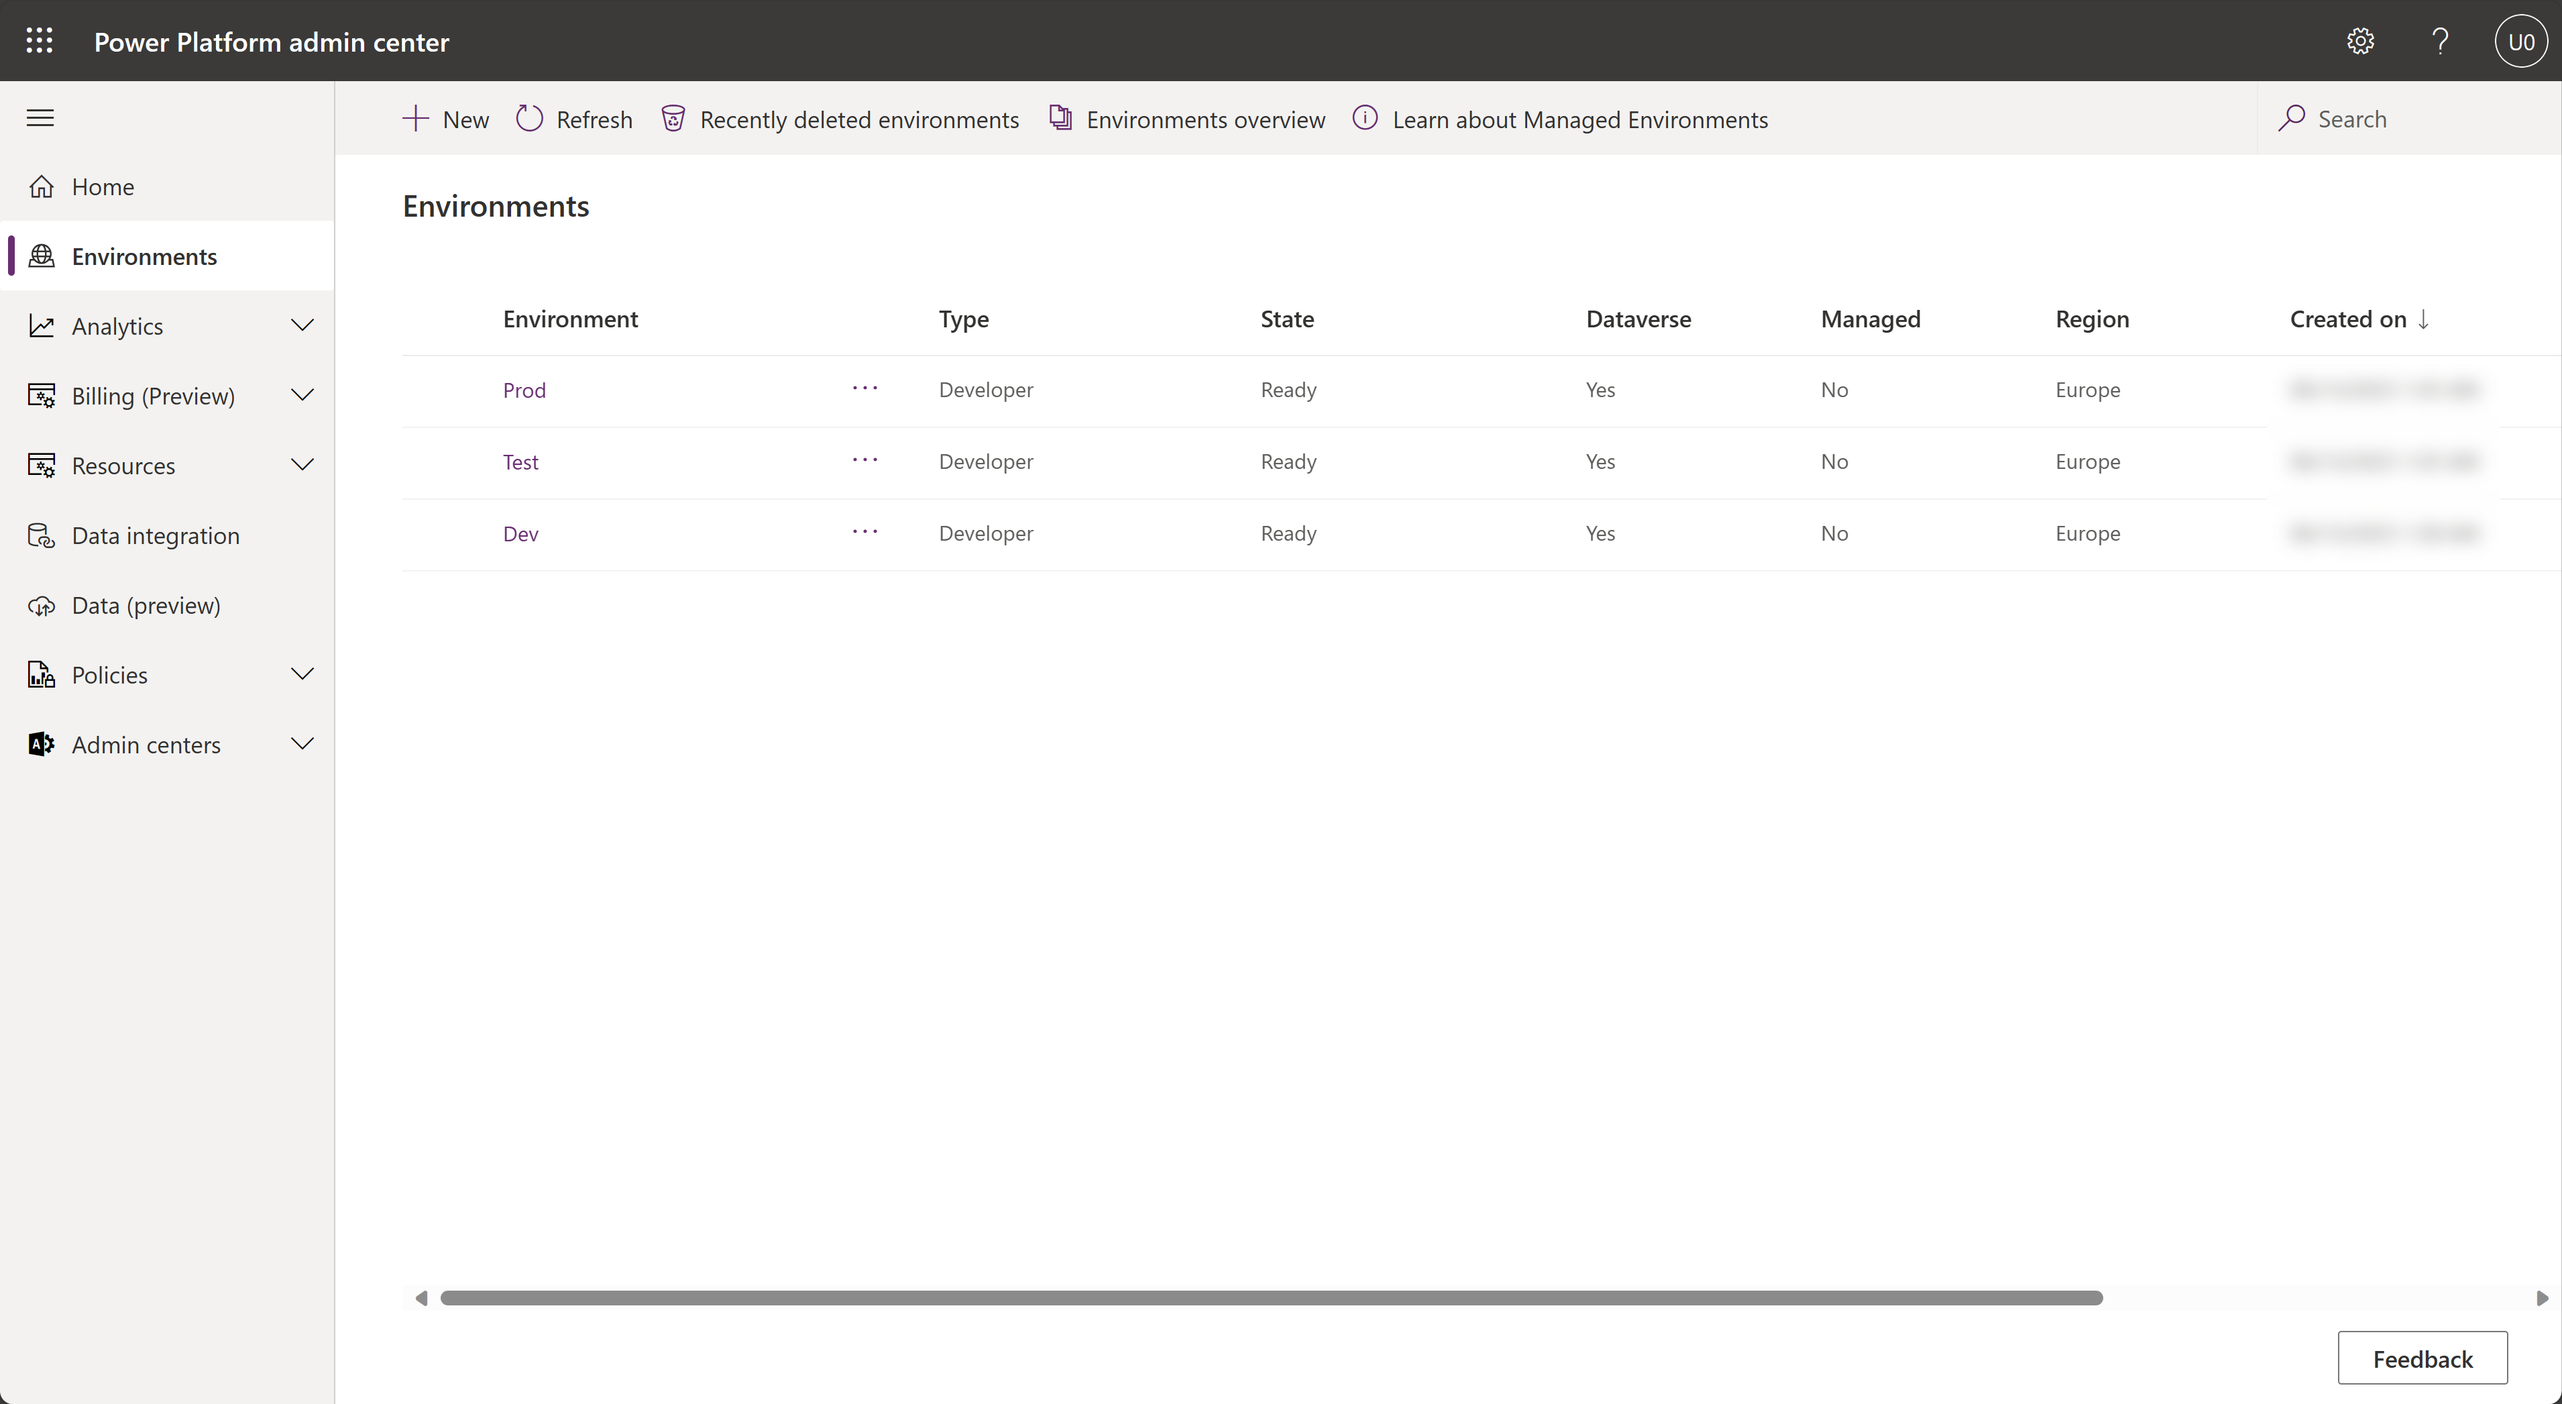
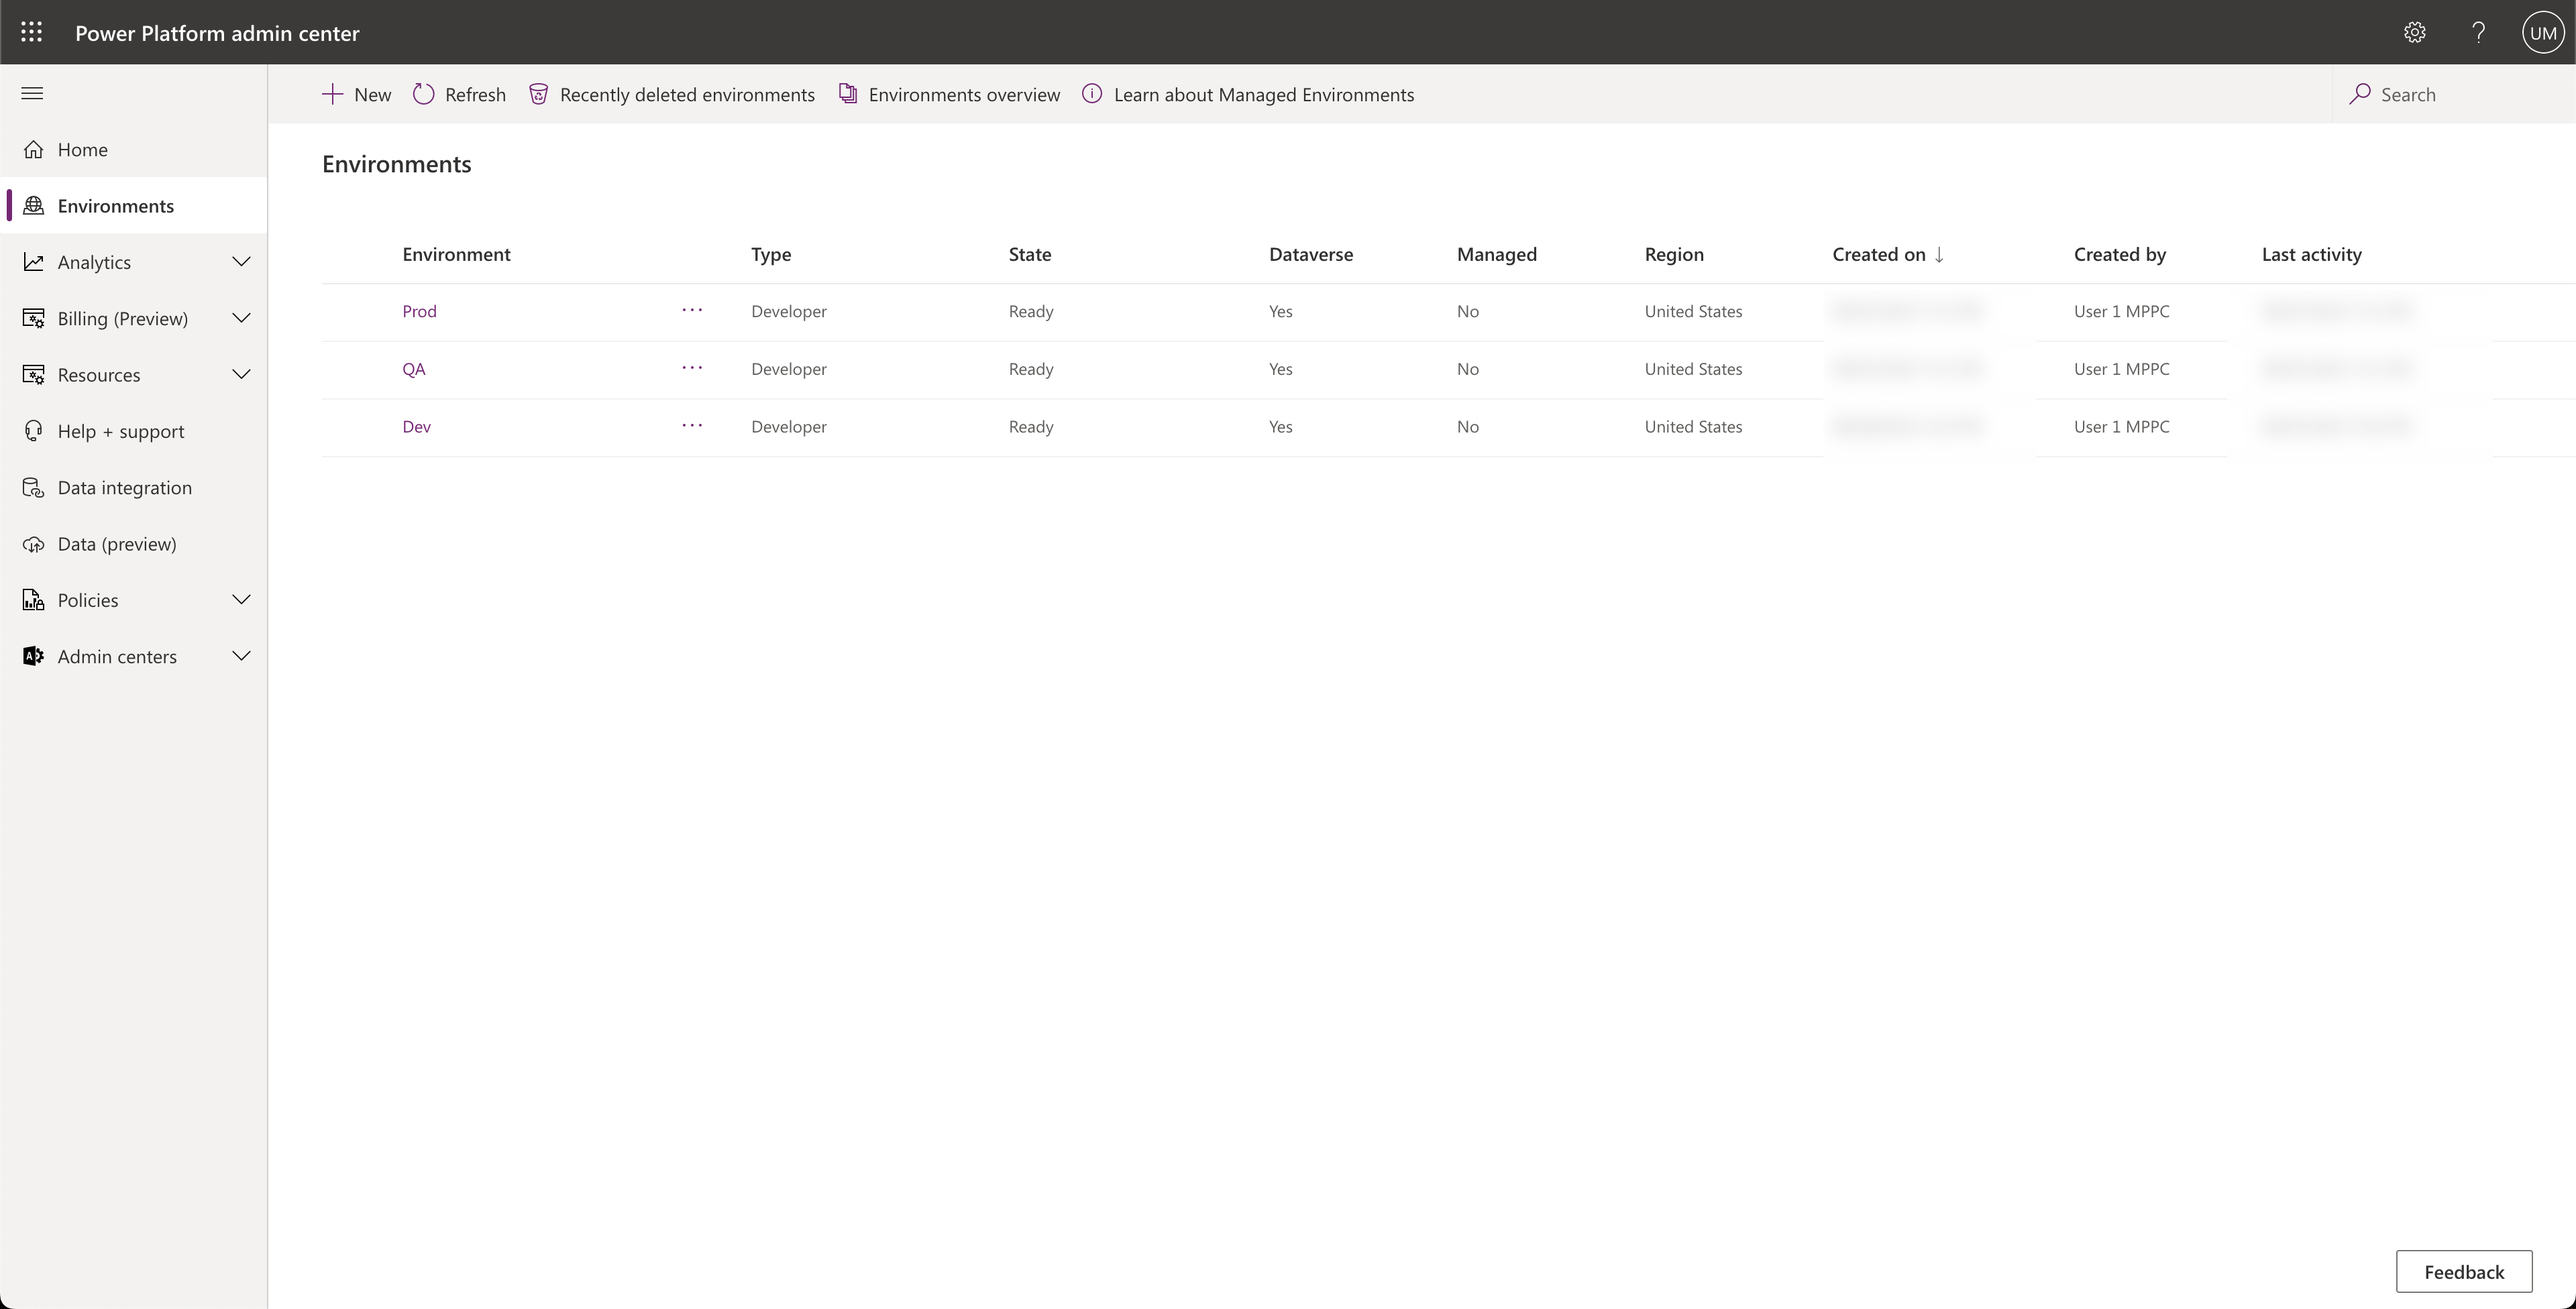
Updates to env creation

diff --git a/lab1/README.md b/lab1/README.md
@@ -210,7 +210,7 @@ Now, let's rename the environment to something that makes sense to us.
 
     ![Exit the Welcome / Tour pop up](assets/exit-welcome-tour.png)
 
-1. Click on **Environments** in the left navigation
+1. Select **Environments** in the left navigation
 1. Select `{User}'s Environment` by clicking on the name
 1. In the details card, select **edit**
 
@@ -224,13 +224,13 @@ Now, let's rename the environment to something that makes sense to us.
 
     ![](./assets/environment-edit-save-operation.png)
 
-1. Click on **Environments** to make get back to the overview of the environments.
+1. Select **Environments** to make get back to the overview of the environments.
 
 ### Create the `QA` environment via the Power Platform Admin Center (PPAC)
 
 We are going to create a QA environment through the Power Platform Admin Center.
 
-1. Click on **New** in the top navigation
+1. Select **New** in the top navigation
 
     ![Environment + New for adding environments](assets/new-environment-button.png)
 
@@ -243,11 +243,10 @@ We are going to create a QA environment through the Power Platform Admin Center.
     | Type | Developer |
     | Purpose | Developer environment for MPPC23 |
 
-    ![Create new Developer Environment](assets/create-dev-env.png)
+    ![Create new Developer Environment](assets/create-qa-env.png)
 
-1. Click **Next**
-1. The next section is asking you to add Dataverse. Finally Click on **Save**
-1. Now do the same for the Test and Prod environments with the following information:
+1. Select **Next**
+1. The next section is asking you to add Dataverse. Finally select on **Save**
 
 ### Create the `Prod` environment via the Power Platform Command-Line Interface (CLI)
 
